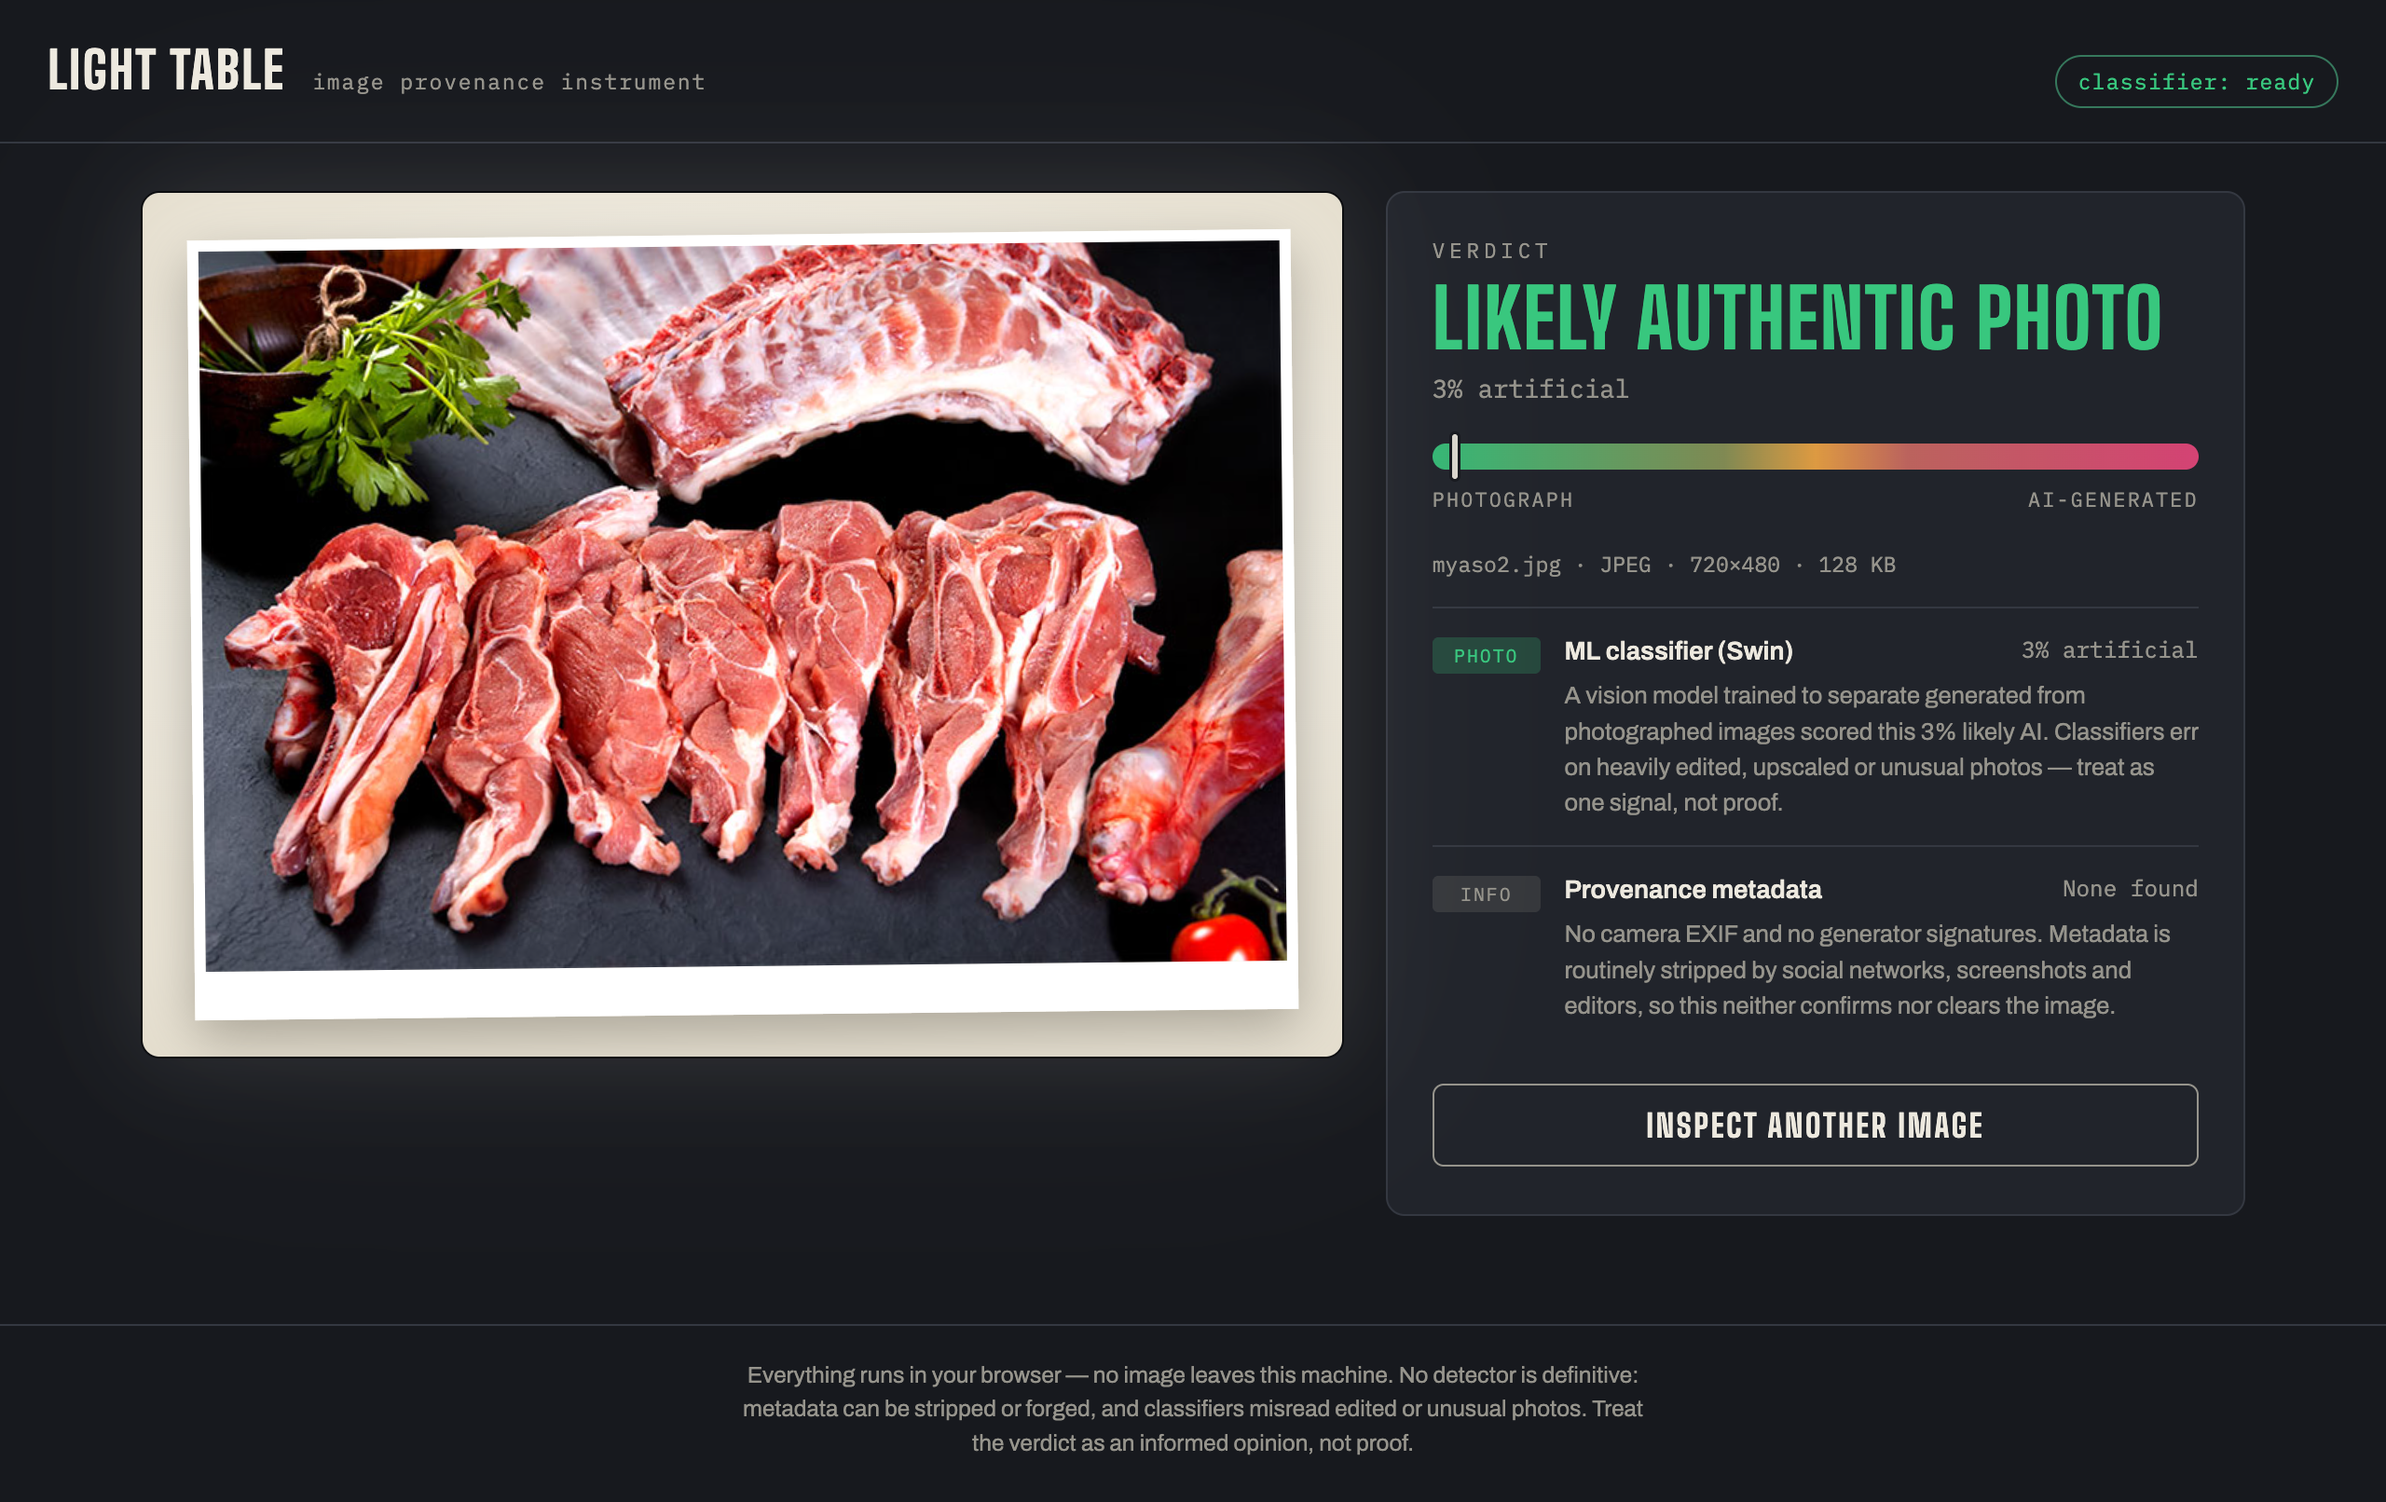
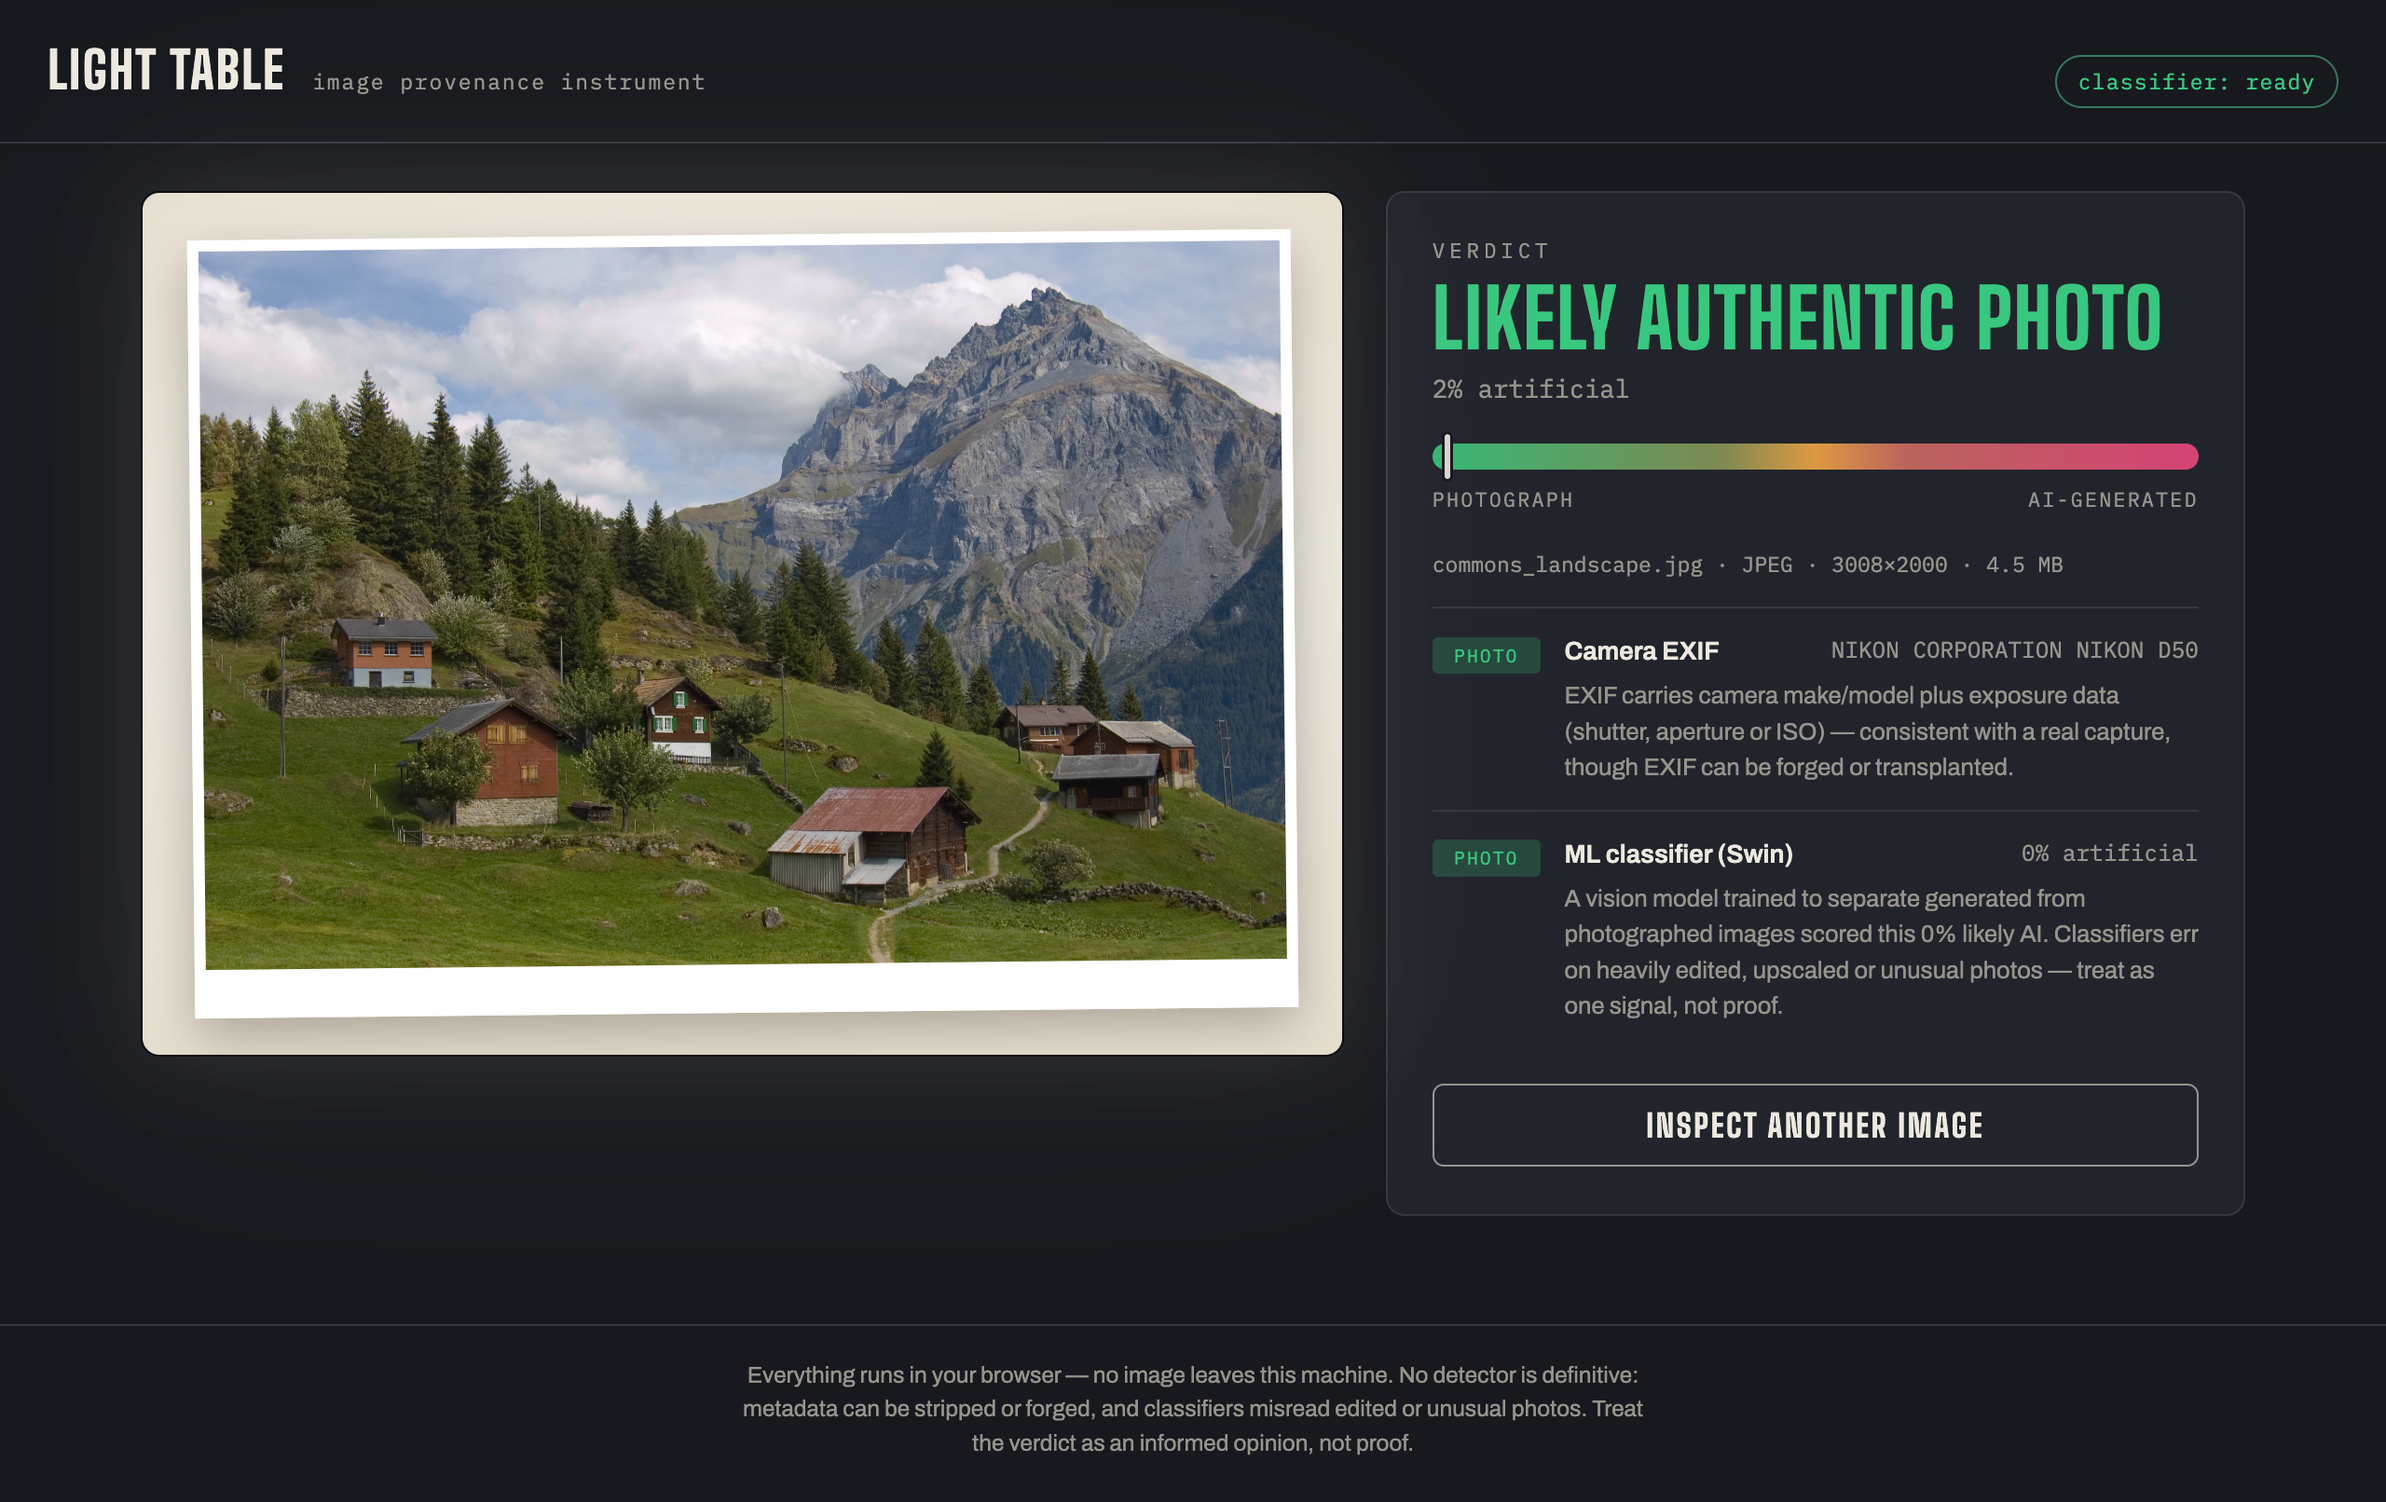
Shorten report; replace authentic-verdict screenshot with Commons photo

diff --git a/REPORT.md b/REPORT.md
@@ -2,60 +2,28 @@
 
 ## 1. What did you build?
 
-**Light Table** — a mini web app that judges whether an image is AI-generated
-or an authentic photo. Repo: https://github.com/dik-garri/detector
+**Light Table** — a web app that judges whether an image is AI-generated or an
+authentic photo. Repo: https://github.com/dik-garri/detector
 
-You drop, paste, or browse an image onto a glowing "light table"; a scan beam
-sweeps it and a needle settles on a photograph↔AI gauge with an evidence
-report. Everything runs client-side — no backend, no API keys, no image ever
-leaves the machine.
-
-The verdict combines two independent signals:
-
-- **Metadata forensics** — hand-written parsers over the raw file bytes:
-  Stable Diffusion / ComfyUI generation recipes in PNG chunks, camera EXIF
-  (make, model, exposure — evidence *for* a real capture), the IPTC
-  `trainedAlgorithmicMedia` XMP marker embedded by DALL-E and Google Imagen,
-  C2PA content credentials, and a whole-file sweep for ~20 generator
-  signatures.
-- **ML classifier** — a Swin transformer (quantized ONNX, ~88 MB, cached)
-  running in the browser via transformers.js.
-
-Hard metadata evidence overrides the classifier; camera EXIF nudges the score
-toward authentic; otherwise the classifier decides, with an "Inconclusive"
-band in the middle.
+Drop an image on the "light table" and it combines two signals into a verdict
+with an evidence report: **metadata forensics** (Stable Diffusion/ComfyUI
+recipes in PNG chunks, camera EXIF, the IPTC `trainedAlgorithmicMedia` marker
+used by DALL-E, C2PA credentials) and an **in-browser ML classifier** (Swin
+transformer via transformers.js, quantized ONNX). Everything runs client-side —
+no backend, no API keys, no image leaves the machine.
 
 | Real photo | AI image (SDXL, metadata stripped) |
 |---|---|
 | ![Authentic verdict](screenshots/01-authentic-verdict.png) | ![AI verdict](screenshots/02-ai-verdict.png) |
 
-Tested end-to-end in Chrome with four crafted fixtures (in `test-fixtures/`):
-a PNG carrying a real Stable Diffusion parameters chunk (→ 98% AI), a genuine
-SDXL render with metadata stripped (→ 100% AI via classifier alone), a JPEG
-with hand-built Canon EOS R5 EXIF (→ 2% AI), and a bare image with no
-metadata at all.
-
 ## 2. What did you learn?
 
-- **Metadata is the strongest and the weakest signal at once.** When present,
-  an embedded generation recipe or a signed C2PA manifest is near-proof — but
-  social networks, screenshots and editors strip it routinely, so for most
-  real-world images the ML classifier is the only signal left. A layered
-  design (hard evidence overrides, soft evidence nudges, classifier decides)
-  handles both worlds.
-- **In-browser ML is genuinely practical now.** An 88 MB quantized Swin model
-  loads once through transformers.js, is cached by the browser, and
-  classifies in well under a second — giving a free privacy guarantee that a
-  server-side detector can't match.
-- **Provenance standards are further along than expected.** IPTC's
-  `trainedAlgorithmicMedia` digital-source-type and C2PA manifests are
-  already embedded by major generators; detecting them needs only byte-level
-  parsing of PNG chunks, EXIF/TIFF IFDs, and XMP packets.
-- **No detector is definitive.** Metadata can be forged or transplanted, and
-  classifiers misread edited, upscaled or unusual photos — so the UI presents
-  the verdict as an informed opinion with visible evidence rows rather than a
-  binary answer.
-- **Synthetic fixtures make an "unbuildable-to-test" feature testable.**
-  Hand-crafting a PNG with an SD parameters chunk and a JPEG with a
-  hand-rolled TIFF/EXIF block made every code path verifiable end-to-end in a
-  real browser before any real-world image was tried.
+- **Metadata is the strongest and weakest signal at once** — an embedded
+  generation recipe is near-proof, but social networks strip it, so most
+  real-world images fall to the classifier. Layered scoring (hard evidence
+  overrides, soft evidence nudges) handles both.
+- **In-browser ML is practical now** — an 88 MB quantized model loads once,
+  caches, and classifies in under a second, with privacy for free.
+- **No detector is definitive** — metadata can be forged and classifiers
+  misread edited photos, so the UI shows an evidence trail, not a binary
+  answer.
